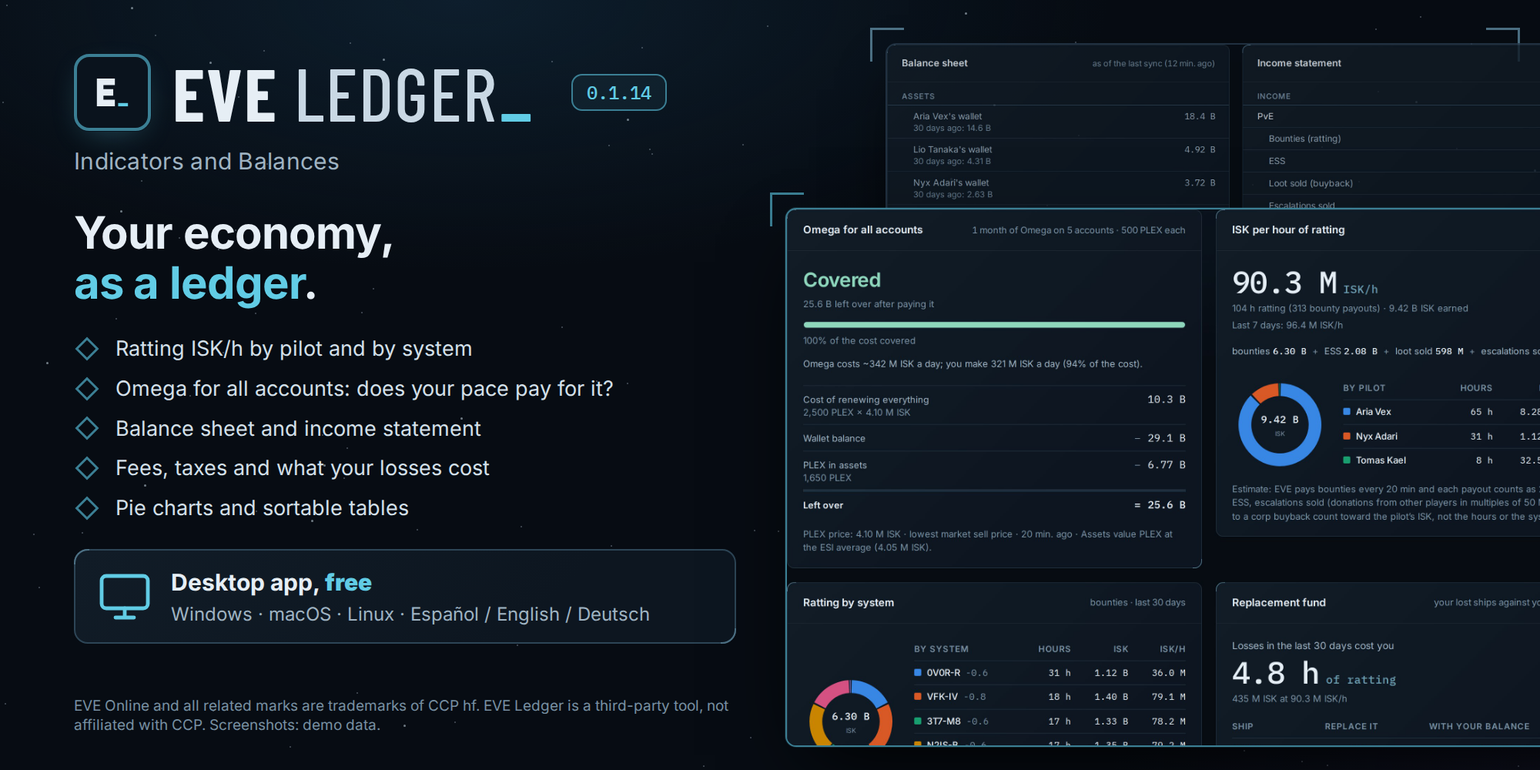
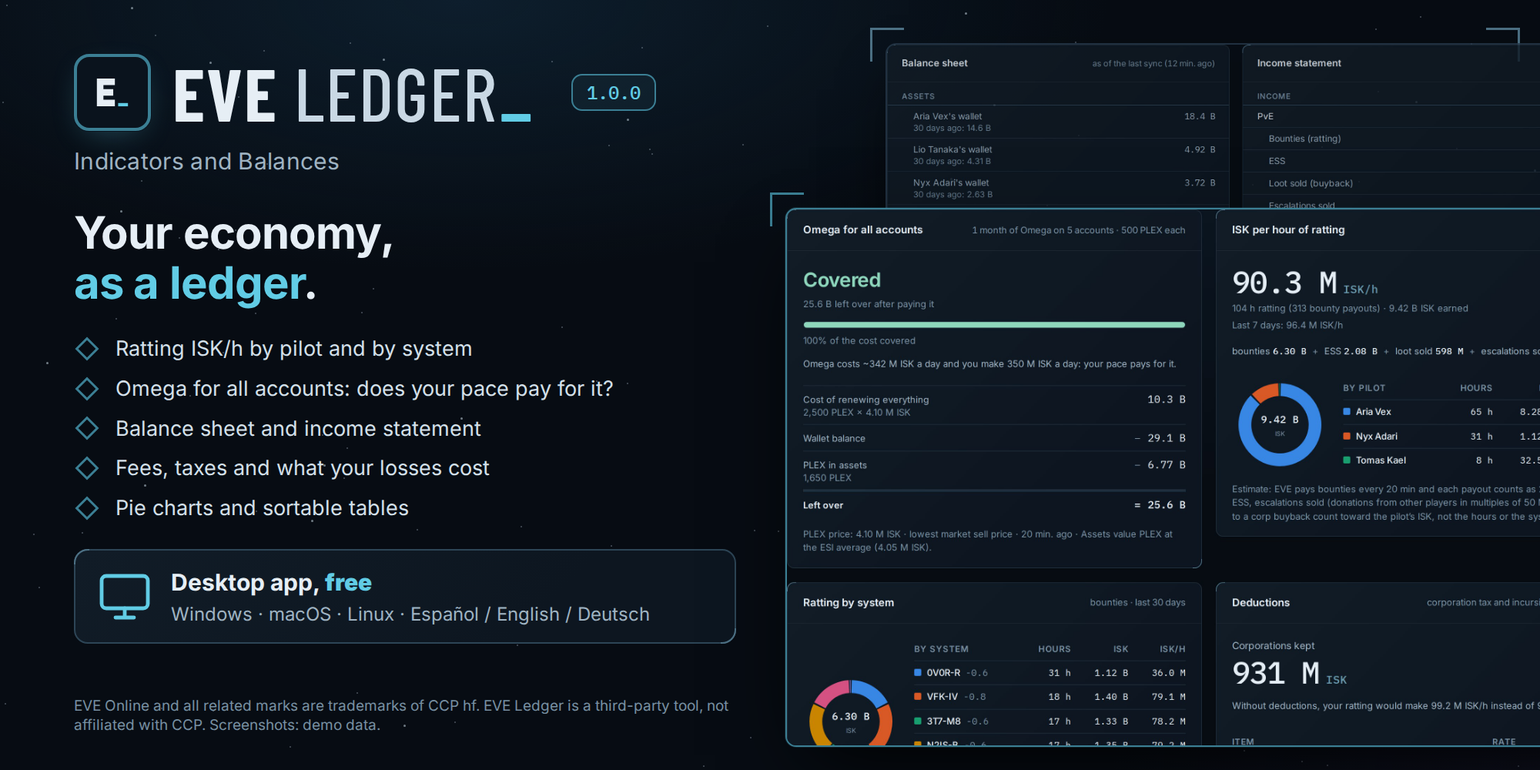
Release 1.0.0: first stable version
Version 1.0.0 in tauri.conf.json, Cargo.toml and Cargo.lock; the CHANGELOG's
Unreleased section becomes 1.0.0 with the release notes (what EVE Ledger is,
what changed since 0.1.18, upgrading from 0.1.x: optional loyalty permission,
unsigned installers, where it has been tested). The upgrade test opens a
1.0.0 database (19 migrations) too.

Screenshots for the README and the brochure regenerated with the demo data,
which now carries the corporation tax of each bounty and ESS payment so the
Deductions card isn't empty; the brochure shows 1.0.0. The demo script
refuses to start on a busy port and runs its servers without a subshell, so
its trap really stops them (a server left over from an earlier run was
serving stale data to the screenshots: Bun shares the port).

Claude-Session: https://claude.ai/code/session_01M8WtF2MrXeJVUAxf2xqCAQ

diff --git a/docs/brochure/demo/seed.ts b/docs/brochure/demo/seed.ts
@@ -39,6 +39,10 @@ const ST = {
   staging: 1_045_000_000_001, // made-up citadel in VFK-IV
 };
 const NPC_CORP = 1000125; // CONCORD
+// Corporation tax (Descuentos): the pilots' corporation keeps 10 % of bounties and ESS; Tomas, still in an NPC
+// corporation, pays 11 %
+const TAX_CORP = 98_100_002;
+const TAX_NPC_CORP = 1000049; // Brutor Tribe
 const STRANGERS = [95_100_001, 95_100_002, 95_100_003, 95_100_004];
 const BUYBACK_CORP = 98_100_001;
 const T = {
@@ -240,6 +244,8 @@ for (const e of entries) {
       journalRefId: id,
     });
   }
+  const taxed = e.ref === 'bounty_prizes' || e.ref === 'ess_escrow_transfer';
+  const npcTax = e.char === P.tomas.id;
   journal.push({
     journalId: id,
     characterId: e.char,
@@ -251,6 +257,9 @@ for (const e of entries) {
     secondPartyId: e.second,
     contextId: ctx?.[0],
     contextIdType: ctx?.[1],
+    // ESI gives the tax with the amount already net of it
+    tax: taxed ? round(e.amount * (npcTax ? 0.11 / 0.89 : 0.1 / 0.9)) : 0,
+    taxReceiverId: taxed ? (npcTax ? TAX_NPC_CORP : TAX_CORP) : null,
   });
 }
 for (const [id, b] of balance) if (b < 0) throw new Error(`saldo negativo en ${id}`);
@@ -358,6 +367,8 @@ db.insert(s.names)
     ...systems.map((x) => ({ id: x.id, name: x.name, category: 'solar_system' })),
     { id: NPC_CORP, name: 'CONCORD', category: 'corporation' },
     { id: BUYBACK_CORP, name: 'Demo Buyback Corp', category: 'corporation' },
+    { id: TAX_CORP, name: 'Ledger Demo Corp', category: 'corporation' },
+    { id: TAX_NPC_CORP, name: 'Brutor Tribe', category: 'corporation' },
     ...STRANGERS.map((id, i) => ({ id, name: `Demo Trader ${i + 1}`, category: 'character' })),
   ])
   .onConflictDoNothing()

diff --git a/docs/brochure/brochure.html b/docs/brochure/brochure.html
@@ -161,7 +161,7 @@ const slide = T[q.get('slide')] ? q.get('slide') : 'portada';
 const t = { ...T[slide][lang], ...COMMON[lang] };
 document.documentElement.lang = lang;
 document.body.dataset.slide = slide;
-document.querySelector('[data-version]').textContent = q.get('v') || '0.1.14';
+document.querySelector('[data-version]').textContent = q.get('v') || '1.0.0';
 for (const el of document.querySelectorAll('[data-t]')) {
   const k = el.dataset.t;
   // A bullet in square brackets is the new feature: chip «NUEVO»

diff --git a/apps/api/test/upgrade.test.ts b/apps/api/test/upgrade.test.ts
@@ -22,6 +22,7 @@ const RELEASES: [string, number][] = [
   ['0.1.13', 15],
   ['0.1.15', 17],
   ['0.1.17', 18],
+  ['1.0.0', 19],
 ];
 
 const ARIA = 2_100_000_001;

diff --git a/CLAUDE.md b/CLAUDE.md
@@ -37,7 +37,7 @@ Proyecto personal, corre solo en localhost. Responder siempre en español neutro
 - **Resultado de juego** (tarjeta de Neto): neto del wallet − PLEX / cuentas (aparte) − naves que no volvieron − por reponer; la frase lo desglosa («Neto del wallet −13,4 B + 18,8 B de PLEX (cuentas, aparte) − 2,20 B de naves que no volvieron − ~424 M por reponer»). Las barras de actividades de la tarjeta no incluyen PLEX / cuentas: va en su propia línea al pie («PLEX / cuentas: −18,8 B · 3840 PLEX comprados · Omega en Indicadores»); el panel «Por actividad» sí la detalla. En el gráfico diario la parte de la barra que es PLEX va rayada (leyenda «PLEX (cuentas)», tooltip y `aria-label`). El ritmo del Omega (`dailyNetRate`) no cuenta el PLEX. Si un tipo de movimiento es ≥ 60 % de una actividad, su `title` lo nombra («sobre todo Donaciones»).
 - Ingresos y gastos son **brutos** en todo el resumen (totales, «Hoy», período anterior, gráfico diario y pilotos): toda compra de mercado es gasto y toda venta ingreso, para que lo gastado en ítems se vea. El margen del trading (ventas − compras − comisiones) solo aparece como neto de su fila en «Por actividad». (Antes se plegaba como margen en los totales; se descartó porque ocultaba las compras.) Las naves compradas en el mercado cuentan como trading, salvo las que reponen una nave perdida (PvP, ver «PvP con naves»).
 - Revisión de mercado (`market` en `/summary`, `marketReview()`): una tabla por ítem con vendido, comprado y neto (sin comisiones), plegada al final del resumen. Orden del resumen: filtro de pilotos → vistazo → gráfico → por actividad → tabla de pilotos → inventario → revisión de mercado.
-- Filtro por piloto: `?characterId=` opcional en `/summary`, `/inventory` y `/map` (404 si no está vinculado; `src/lib/pilot-filter.ts`). Las transferencias entre tus pilotos siguen sin contar también en la vista de un piloto; `characters` en `/summary` y `byCharacter` en `/inventory` vienen siempre completos. En la web es `/?pilot=ID`: la franja de pilotos bajo las pestañas de período es el filtro («Todos» con la suma de los saldos + cada piloto con el **saldo de su wallet** al último sync, `characters[].balance`, sin signo ni verde/rojo porque no es un neto; decisión del usuario, 0.1.19: antes mostraba el neto del período, que ya está en la tarjeta de Neto y en la tabla de pilotos; un piloto sin sync muestra «—» y uno con datos viejos, su saldo en gris con la edad) y las pestañas lo conservan; un enlace a un piloto desvinculado vuelve al consolidado.
+- Filtro por piloto: `?characterId=` opcional en `/summary`, `/inventory` y `/map` (404 si no está vinculado; `src/lib/pilot-filter.ts`). Las transferencias entre tus pilotos siguen sin contar también en la vista de un piloto; `characters` en `/summary` y `byCharacter` en `/inventory` vienen siempre completos. En la web es `/?pilot=ID`: la franja de pilotos bajo las pestañas de período es el filtro («Todos» con la suma de los saldos + cada piloto con el **saldo de su wallet** al último sync, `characters[].balance`, sin signo ni verde/rojo porque no es un neto; decisión del usuario, escritorio 1.0.0: antes mostraba el neto del período, que ya está en la tarjeta de Neto y en la tabla de pilotos; un piloto sin sync muestra «—» y uno con datos viejos, su saldo en gris con la edad) y las pestañas lo conservan; un enlace a un piloto desvinculado vuelve al consolidado.
 - Primer uso en el resumen: sin pilotos, `FirstRun.astro` (qué responde el ledger, tres pasos, aviso de los ~30 días de ESI y una sola acción: vincular; sin pestañas de período ni botón «Sincronizar»). Con pilotos pero sin ningún movimiento guardado (vista consolidada), `FirstSync.astro`: estado de cada piloto y recarga cada 15 s (máx. 2 min) mientras alguno hace su primer sync.
 - **Escritorio** (`apps/desktop`, decisión del usuario: compartir el ledger personal con la corp con un instalador de Tauri y configuración editable):
   - Tauri 2 lanza la API y la web como dos procesos de **Bun (sidecar `binaries/bun-<triple>`)**: `resources/server/api/api.js` (la API en un archivo) y `resources/server/web/server/entry.js` (Astro empaquetado sin `node_modules`; el adaptador busca `../client` subiendo hasta la carpeta `server`). Los dos pasan por `launch.js` (`scripts/launch.js`), que sale cuando se cierra su stdin: si la app muere, no quedan ocupando los puertos. Nada se ejecuta desde la carpeta de instalación: `install_server()` copia los recursos a la carpeta de datos local (`server/<versión-huella>`, borra las copias viejas), porque en Windows Bun daba «EPERM reading» en `C:\Program Files`; y las rutas «verbatim» de Windows (`\\?\C:\…`) se pasan sin el prefijo (`plain()`), que Bun no abre. La versión sube con cada instalador (MSI no actualiza encima de la misma versión).
@@ -63,7 +63,7 @@ Proyecto personal, corre solo en localhost. Responder siempre en español neutro
   - **Dónde está tu ISK**: torta del saldo de los wallets por piloto (de `omega.balances`, de mayor a menor, solo saldos > 0) con Saldo · % del saldo.
   - **Comisiones e impuestos** (`feesIndicator()`, 30 días): impuesto de venta, broker, impuesto del mercado y comisiones/impuestos de contratos de compraventa (las de courier son logística), en ISK y en % de lo vendido en el mercado (sin ventas a tus pilotos), con la pista de Accounting / Broker Relations.
   - **Descuentos** (decisión del usuario, escritorio 0.1.17; `deductionsIndicator()` en `src/services/deductions.ts`, 30 días): lo que no llega al wallet de lo que ganas en PvE. **Impuesto de corporación**, exacto: ESI da `tax` y `tax_receiver_id` en cada movimiento del journal (columnas `tax`, `tax_receiver_id`, migración 0017; `amount` ya viene sin el impuesto, así que no cambia el neto ni nada del resumen); se guardan al insertar y el sync completa los movimientos guardados antes (`fillTax()`, solo los que tienen `tax` a null; los que ESI ya no da se quedan en null y la tarjeta cuenta cuántos cobros no tienen el dato). Por corporación con su tasa (impuesto ÷ (cobrado + impuesto)), «NPC» si su ID está en 1 000 000–1 999 999, y el desglose por tipo en el `title`; el nombre de la corporación lo resuelve `resolvePendingNames()`. **Penalización de incursión**, estimada: en la constelación de una incursión las recompensas se pagan a la mitad sin depender de la influencia (EVE University, «Incursions»; `INCURSION_BOUNTY_PENALTY` = 0,5), así que lo perdido = lo cobrado × p / (1 − p). ESI solo dice las incursiones activas (`GET /incursions/`, público): `refreshIncursions()` las apunta una vez por ronda de sync en `incursion_systems` (un tramo por sistema; si se vuelve a ver antes de 24 h se alarga) y `esi_checks` guarda desde cuándo se mira; solo cuenta una recompensa (`bounty_prizes` con `context_id_type = system_id`) cobrada dentro de un tramo (la cifra es «al menos»; el ESS no dice el sistema y no entra). Tarjeta: «Se quedaron las corporaciones» con lo exacto como cifra y la incursión aparte en gris con «~» (si no hay impuesto, la cifra es la incursión, en gris), «Sin descuentos, tu ratting daría X ISK/h en lugar de Y (+Z %)» (solo suma el impuesto de recompensas y ESS, no el de misiones) y una tabla Concepto · Tasa · ISK con dos grupos (corporaciones; sistemas con incursión, en gris). «Ratting por sistema» marca con la etiqueta ámbar «incursión» los sistemas cuya recompensa se llevó una incursión. Pruebas: `apps/api/test/deductions.test.ts` y un flujo e2e (Kade rattea en Kamela con incursión).
-  - **Puntos de lealtad** (decisión del usuario tras un comentario de la comunidad («los puntos de ESI de la corp»: podían ser los EverMarks o los LP por corporación, y en ESI son lo mismo); `loyaltyIndicator()` en `src/services/loyalty.ts`, migración 0018): scope **opcional** `esi-characters.read_loyalty.v1` (en `OPTIONAL_SCOPES`, como citadelas: chip «Puntos de lealtad · opcional» en Pilotos, lista `OPTIONAL` de `pilotos.astro`; **pendiente añadirlo a la app de EVE**). En cada sync, `GET /characters/{id}/loyalty/points` → `loyalty_points` (foto por piloto y corporación, se reemplaza) y `loyalty_log` (una fila por cada cambio, también a 0 cuando una corporación desaparece: ESI no da historial, así que el cambio del período, ganados − gastados, sale de ahí desde el primer sync; si el registro empieza dentro del período, la tarjeta dice «desde el <fecha>»). **EverMarks** = los LP de la corporación NPC Paragon, que se distingue **por el nombre** (`EVERMARKS_CORP`; el ID no se pudo verificar desde el entorno de Claude), van aparte y «no se cambian por ISK». **Valor** = LP × el mejor cambio de la tienda de esa corporación: `GET /loyalty/stores/{id}/offers` (público, `loyalty_offers`, `loyalty_stores` apunta cuándo se leyó cada una: al día, 10 por sync, las de más LP primero, un 404 espera 7 días; `refreshLoyaltyStores()`), y por oferta (ítem × cantidad al **precio medio de ESI** − ISK − ítems que hay que aportar) ÷ LP; sin precio de algo, la oferta no cuenta. Siempre estimado (gris, «~»; la nota dice que no es lo de Jita). El wallet de LP de la propia corporación no está en ESI (petición abierta desde 2023). Tarjeta tras «Dónde está tu ISK»: «Valen ~1,06 B» (o «Tienes N LP» si nada se puede valorar), «+235.000 LP en 30 días (ganados menos gastados)», torta de LP por corporación con la tabla Corporación (con los pilotos debajo si hay más de uno) · LP · ISK/LP · Valor (el `title` dice el mejor cambio o por qué no hay), línea «EverMarks (Paragon): 38.100 · Aria 21.400 · … · no se cambian por ISK» y la nota con cobertura (sin permiso, sin primer sync, tiendas por leer o sin valor). Pruebas: `apps/api/test/loyalty.test.ts` y un flujo e2e.
+  - **Puntos de lealtad** (decisión del usuario tras un comentario de la comunidad («los puntos de ESI de la corp»: podían ser los EverMarks o los LP por corporación, y en ESI son lo mismo); `loyaltyIndicator()` en `src/services/loyalty.ts`, migración 0018): scope **opcional** `esi-characters.read_loyalty.v1` (en `OPTIONAL_SCOPES`, como citadelas: chip «Puntos de lealtad · opcional» en Pilotos, lista `OPTIONAL` de `pilotos.astro`; ya en la app de EVE). En cada sync, `GET /characters/{id}/loyalty/points` → `loyalty_points` (foto por piloto y corporación, se reemplaza) y `loyalty_log` (una fila por cada cambio, también a 0 cuando una corporación desaparece: ESI no da historial, así que el cambio del período, ganados − gastados, sale de ahí desde el primer sync; si el registro empieza dentro del período, la tarjeta dice «desde el <fecha>»). **EverMarks** = los LP de la corporación NPC Paragon, que se distingue **por el nombre** (`EVERMARKS_CORP`; el ID no se pudo verificar desde el entorno de Claude), van aparte y «no se cambian por ISK». **Valor** = LP × el mejor cambio de la tienda de esa corporación: `GET /loyalty/stores/{id}/offers` (público, `loyalty_offers`, `loyalty_stores` apunta cuándo se leyó cada una: al día, 10 por sync, las de más LP primero, un 404 espera 7 días; `refreshLoyaltyStores()`), y por oferta (ítem × cantidad al **precio medio de ESI** − ISK − ítems que hay que aportar) ÷ LP; sin precio de algo, la oferta no cuenta. Siempre estimado (gris, «~»; la nota dice que no es lo de Jita). El wallet de LP de la propia corporación no está en ESI (petición abierta desde 2023). Tarjeta tras «Dónde está tu ISK»: «Valen ~1,06 B» (o «Tienes N LP» si nada se puede valorar), «+235.000 LP en 30 días (ganados menos gastados)», torta de LP por corporación con la tabla Corporación (con los pilotos debajo si hay más de uno) · LP · ISK/LP · Valor (el `title` dice el mejor cambio o por qué no hay), línea «EverMarks (Paragon): 38.100 · Aria 21.400 · … · no se cambian por ISK» y la nota con cobertura (sin permiso, sin primer sync, tiendas por leer o sin valor). Pruebas: `apps/api/test/loyalty.test.ts` y un flujo e2e.
 - **Tortas y orden en las tablas principales** (decisión del usuario): «Por actividad» lleva dos tortas (ingresos y gastos por actividad; el color de cada actividad es su posición en el orden fijo, `ACTIVITIES` de `lib/api.ts`, no en la lista que llega, que omite las vacías) y filas en columnas alineadas Ingresos · Gastos con el % del total debajo de cada cifra (el orden de las actividades sigue fijo; la pista va en su propia área de la rejilla y en móvil a todo el ancho); «Naves perdidas», dos tortas con tabla-leyenda (coste por piloto, solo en el consolidado, y por tipo de nave; de mayor a menor, 6 + «Otros»; la pérdida que el seguro dejó en positivo cuenta 0; con lo estimado por reponer y el pie lo dice); «Pilotos», dos tortas (ingresos y gastos por piloto) con la muestra de color en la fila y la tarjeta de cada piloto, y **cabeceras que ordenan** (`.sort-button` con `aria-sort`: mayor a menor, invertir, orden original; sin dato al final; la fila Total fija; los `data-*` de cada fila y tarjeta llevan los valores; en móvil, el selector «Ordenar por» de `.cards-sort`). Compartido en `theme.css`: `.shares` (fila de figuras: torta + pie o torta + `.mini`), `.mini` (antes solo en Indicadores), `.sort-button`, `.sort-select`; `fold()` y `shareOf()` en `src/lib/shares.ts`. El color sigue a la entidad (índice fijo), no a su rango: ordenar no repinta.
 - **Balances** (`/balances`, `apps/web/src/pages/balances.astro`, decisión del usuario: «un módulo contable», llamado «Balances» porque el wallet de EVE no es contabilidad formal): las cifras del resumen como un libro, con pestañas de período y chips de piloto (`?days=`, `?pilot=`; un piloto desvinculado vuelve al consolidado). **Balance general** «al último sync»: Activo = wallets (una fila por piloto con «hace N días: saldo anterior») + inventario al precio medio (en el consolidado, el PLEX guardado aparte: `plexOwned × plexAveragePrice` de `/indicators`); Pasivo (compromisos, no deudas) = Omega del próximo mes de todas las cuentas (`omega.cost`, solo consolidado; sin precio, «—») + naves por reponer (estimado, gris); Patrimonio neto = activo − pasivo (sin «+», rojo solo si es negativo). **Estado de resultados** del período: ingresos y gastos brutos por actividad (orden fijo) con sus tipos de movimiento como líneas indentadas y el % del total; Total ingresos, Total gastos (−), «= Resultado del wallet» (ingresos − gastos, con signo y color); en la vista de un piloto, nada de lo movido con tus otros pilotos (no es resultado; va en la conciliación); «Del wallet al resultado de juego»: PLEX / cuentas aparte (+ lo comprado), − no repuesto, − por reponer (estimado) «= Resultado de juego» (la misma fórmula que la tarjeta de Neto; con estimado, en gris con «~»). **Conciliación del wallet** (suma los pilotos con movimientos guardados: uno sin primer sync no la deja en «—»): saldo anterior (+/−) resultado del wallet (+/−) movido con tus otros pilotos (vista de un piloto) (+/−) «movimientos anteriores al historial» si hay hueco ≥ 1 ISK «= Saldo actual». Tabla `.statement` (etiqueta con `.row-meta`, operador en su columna con `sr-only`, importe, `% del total`; grupos en mayúsculas, `.sub` indentado, `.total` con línea fuerte, `.result` con doble línea, `.estimate` en gris). Rejilla `.books`: balance y conciliación a la izquierda (filas `max-content 1fr` para que la conciliación quede pegada al balance), resultados a la derecha; apilado por debajo de 960 px. En `format.ts`, etiquetas de `project_discovery_reward`, `air_career_program_reward` y `manufacturing`.
 - **Doctrinas** (`/doctrinas`, decisión del usuario: «qué pilotos pueden llevar una nave o doctrina», skills requeridas y óptimas). Entregas 1 (quién vuela qué) y 2 (cuánto cuesta) hechas.
@@ -91,7 +91,7 @@ Proyecto personal, corre solo en localhost. Responder siempre en español neutro
 `characters`, `wallet_journal` (PK `journal_id, character_id`; con `tax` y `tax_receiver_id`), `wallet_transactions` (PK `transaction_id, character_id`; con `client_id` y `journal_ref_id`), `names`, `assets`, `market_prices`, `market_quotes`, `systems`, `station_systems`, `incursion_systems`, `esi_checks`, `killmails` (ítems con `flag`), `contracts`, `types`, `structure_lookups`, `jita_prices`, `character_skills`, `character_attributes`, `type_dogma`, `doctrines`, `fits`, `fit_plans`, `loyalty_points`, `loyalty_log`, `loyalty_offers`, `loyalty_stores`, `sync_log` (con `kind`: `journal` | `transactions` | `assets` | `killmails` | `contracts` | `skills` | `loyalty`).
 
 ## Estado
-- [x] 1. App registrada en developers.eveonline.com (es la app incluida en el instalador de escritorio: `EVE_LEDGER_CLIENT_ID`) (scopes: wallet, assets, killmails, contratos y skills; **pendiente añadir `esi-universe.read_structures.v1`** (0.1.14) **y `esi-characters.read_loyalty.v1`** (puntos de lealtad) en la app antes de repartir un instalador que lo pida: el login lo pide y EVE rechaza un scope que la app no tiene, `invalid_scope`)
+- [x] 1. App registrada en developers.eveonline.com (es la app incluida en el instalador de escritorio: `EVE_LEDGER_CLIENT_ID`) (scopes: wallet, assets, killmails, contratos, skills y los opcionales `esi-universe.read_structures.v1` y `esi-characters.read_loyalty.v1`, añadidos por el usuario antes de la 1.0.0; todo scope nuevo hay que añadirlo en la app antes de repartir un instalador que lo pida: el login lo pide y EVE rechaza un scope que la app no tiene, `invalid_scope`)
 - [x] 2. Esquema Drizzle + migración
 - [x] 3. Flujo SSO (`/auth/login`, `/auth/callback`) + `GET /characters` + `GET /characters/:id/wallet`
 - [x] 4. Sync del wallet journal (`src/services/sync.ts`, `POST /sync/:characterId`, `POST /sync/all`, `GET /sync/log`)
@@ -136,7 +136,8 @@ Proyecto personal, corre solo en localhost. Responder siempre en español neutro
 - [x] 44. Doctrinas por la comunidad (escritorio 0.1.18): renombrar, plegar cada doctrina con el resumen «X de N pilotos · Y de M naves» y vista compacta de los fits.
 - [x] 42. Descuentos en Indicadores (escritorio 0.1.17): impuesto de corporación exacto (journal, migración 0017) y penalización de recompensas en sistemas con incursión, estimada con el registro de `GET /incursions/` en cada sync.
 - [x] 17. Sexta crítica de impeccable (29/40) resuelta entera: frescura por piloto con causa, primer sync que caduca, línea de salud con acciones, Indicadores a 600 px cerrando con el ETA, «Hoy» bajo el neto en móvil.
-- [x] 45. Puntos de lealtad en Indicadores (petición de la comunidad, sin versión aún): scope opcional, LP por corporación y piloto con registro de cambios, EverMarks aparte, valor al mejor cambio de cada tienda (migración 0018: al publicarla, añadir la versión a `RELEASES` de `upgrade.test.ts`).
+- [x] 45. Puntos de lealtad en Indicadores (petición de la comunidad; escritorio 1.0.0): scope opcional, LP por corporación y piloto con registro de cambios, EverMarks aparte, valor al mejor cambio de cada tienda (migración 0018).
+- [x] 46. **Escritorio 1.0.0** (primera versión estable): chips de pilotos con el saldo, puntos de lealtad, renombrar y borrar en la cabecera de cada doctrina, notas de release «primera estable» en el CHANGELOG, `1.0.0 = 19` en `RELEASES` de la prueba de actualización y capturas regeneradas. Los scopes opcionales (citadelas y lealtad) ya están en la app de EVE (confirmado por el usuario). Sin certificados de firma (decisión reafirmada: no se pagan).
 
 ## Paso 4 — especificación
 - `src/services/sync.ts`: `syncJournal(characterId)`
@@ -154,7 +155,7 @@ Proyecto personal, corre solo en localhost. Responder siempre en español neutro
 - Web (`apps/web`): `bun install` · `bun run dev` (puerto 4321) · `bun run test:e2e` (compila y pasa las pruebas de extremo a extremo)
 - **Pruebas de la web** (hacia la 1.0, `apps/web/e2e`, Playwright 1.56.1, el del Chromium del entorno): `serve-api.ts` arranca la API con una base nueva en una carpeta temporal y los datos de `seed.ts` (inventados, con fechas relativas a hoy: Aria Vex Omega con todos los permisos, Kade Morrow Alfa sin el opcional de citadelas, Nyx Adari sin sync; ratting, mercado, una donación entre pilotos, PLEX, una nave perdida y su reposición, inventario en Jita, en una citadela con nombre y en otra sin él, LP con Sisters of EVE (tienda con una oferta valorable), Federation Navy y Paragon), sin sync automático ni ESI; la web compilada corre con Bun como en escritorio. `pages.spec.ts`: las páginas (resumen, vista de un piloto, con inventario, Indicadores, Balances, Doctrinas, Pilotos) en ES/EN/DE a 390 y 1320 px: 200, un solo `h1`, `lang`, sin «undefined/NaN» ni desborde horizontal ni errores de consola (los de imágenes de CCP sin red no cuentan). `flows.spec.ts`: suma de los pilotos = total, actividades = total y conciliación por piloto (contra la API), neto de un piloto sin lo movido con los demás, punto del neto dentro del gráfico, una sola parada de Tab, el permiso opcional no enciende avisos, piloto sin sync sin ceros, citadelas con nombre, puntos de lealtad (valor al mejor cambio, cambio del período, EverMarks, cobertura), copias (hacer, restaurar, rechazar un archivo) y selector de idioma. Un solo worker (comparten la base). CI: `.github/workflows/tests.yml` en cada PR y en main (bun test de la API + compilar la web + e2e; el informe de Playwright como artefacto si falla). Comprobado que detectan una regresión: volver a sumar las transferencias al neto de un piloto hace fallar su prueba.
 - **Rendimiento** (hacia la 1.0, `apps/api/scripts/bench.ts`, `bun run bench [--days=365] [--runs=5] [--keep]`): base sintética de 5 pilotos y un año (~100 000 movimientos, un trader con ~100 operaciones al día, una pérdida cada 3 días con su reposición, 15 000 pilas de inventario) en una carpeta temporal y la API real encima, sin ESI; mide las rutas que piden las páginas. Medido: `/summary?days=30` ~0,25 s, `?days=90` ~0,36 s, `/indicators` ~0,2 s, `/losses` unos ms con el reparto en caché (antes 0,7–1,7 s, 1,4 s y 0,8 s).
-- **Actualizar desde versiones anteriores** (`apps/api/test/upgrade.test.ts` + `upgrade-worker.ts`): una base con el esquema de cada versión de escritorio publicada (0.1.0 = 9 migraciones, 0.1.9 = 11, 0.1.11 = 12, 0.1.12 = 14, 0.1.13 = 15, 0.1.15 = 17, 0.1.17 = 18; añadir la nueva a `RELEASES` cuando una versión traiga migraciones) con datos como se guardaban (killmails sin `flag`, pilotos `secret`) y la API actual arrancando encima en su propio proceso: copia `update`, todas las migraciones, ningún dato perdido, las mismas cifras desde cualquier versión y la copia de antes se restaura.
+- **Actualizar desde versiones anteriores** (`apps/api/test/upgrade.test.ts` + `upgrade-worker.ts`): una base con el esquema de cada versión de escritorio publicada (0.1.0 = 9 migraciones, 0.1.9 = 11, 0.1.11 = 12, 0.1.12 = 14, 0.1.13 = 15, 0.1.15 = 17, 0.1.17 = 18, 1.0.0 = 19; añadir la nueva a `RELEASES` cuando una versión traiga migraciones) con datos como se guardaban (killmails sin `flag`, pilotos `secret`) y la API actual arrancando encima en su propio proceso: copia `update`, todas las migraciones, ningún dato perdido, las mismas cifras desde cualquier versión y la copia de antes se restaura.
 - **Idioma de los commits, el CHANGELOG y los comentarios del código: inglés** (decisión del usuario, para el repositorio público): mensajes de commit, CHANGELOG, notas de release y comentarios en inglés (las etiquetas de la interfaz citadas en un comentario pueden quedar entre «» tal cual); las guías, CLAUDE.md, los textos de la interfaz (i18n), los mensajes de registro y los títulos de las pruebas siguen en español.
 - **CHANGELOG.md** (en inglés): una sección `## x.y.z — fecha` por versión y `## Unreleased` arriba; el job `version` del workflow de escritorio usa la sección de la versión como notas del borrador de la release (con enlaces a la guía y al CHANGELOG del repositorio que compila). Al subir la versión, renombrar «Unreleased». Plantillas de issue en `.github/ISSUE_TEMPLATE` (error, una cifra que no cuadra, idea; en inglés, se puede escribir en ES/DE; nunca piden la base, `ledger.env`, `ENC_KEY` ni tokens).
 - Escritorio (`apps/desktop`): `bun install` · `bun run prepare:server` · `bun run tauri dev` / `bun run tauri build` · tests de la configuración: `cd src-tauri && cargo test`

diff --git a/CHANGELOG.md b/CHANGELOG.md
@@ -4,11 +4,22 @@ What changed in each version of the EVE Ledger desktop app. Every version is a [
 
 When a new version changes the database, the app first saves a copy of it as an `update` backup (**Pilots → Backups**), so you can always go back.
 
-## Unreleased
+## 1.0.0 — 2026-10-19
+
+First stable release. EVE Ledger answers "am I making or losing ISK?" for all your EVE Online pilots, on your own computer: it reads your wallets, assets, losses, contracts, skills and loyalty points through ESI, keeps the history ESI drops after 30 days, and shows it as a Summary (net by activity, today, daily chart, pilots, inventory, market review), Lost ships (what they really cost you), Indicators (Omega for all your accounts, ratting ISK/h, deductions, fees, loyalty points…), Balances (a balance sheet, an income statement and a wallet reconciliation) and Doctrines (who can fly each fit, what it costs, what is missing). Everything stays local: no server, no account, read-only permissions, login with PKCE and no secrets to keep. Spanish, English and German.
+
+Since 0.1.18:
 
 - **Doctrines: rename and delete in the heading row.** The pencil and the bin sit at the right end of each doctrine's heading, so they are there with the doctrine folded too; the pencil is amber and the bin red (the bin of each fit as well). The rename field opens under the pencil.
 - **Indicators → Loyalty points.** What each pilot has with each corporation (missions, faction warfare, your own corporation's projects) and what it is worth in ISK at the best exchange of that corporation's LP store, valued at ESI's average price (an estimate: not what Jita would pay). EverMarks, the loyalty points of Paragon, are shown apart: they can't become ISK. ESI only gives balances, so the change over the period (earned minus spent) is recorded from the first sync on. Needs a new optional permission: pilots linked before show "Loyalty points · optional" in Pilots; click it to grant it. The corporation's own LP wallet is not in ESI.
 - **Summary: the pilot chips show the wallet balance.** The filter strip under the period tabs now shows what each pilot has in the wallet (and "All", the sum of the wallets), instead of the period net, which is already in the Net card and in the pilots table. A pilot without a sync shows "—"; stale data is greyed with its age, as before.
+
+Upgrading from 0.1.x:
+
+- The app updates itself. This version adds the loyalty-point tables to the database; an `update` backup is saved first (**Pilots → Backups**).
+- Loyalty points need a new optional permission: pilots linked before show "Loyalty points · optional" in Pilots. Click it and sign in with that pilot; everything else keeps working without it.
+- The installers stay unsigned: it's a free, open project and signing certificates cost money every year. Windows (SmartScreen) and macOS (Gatekeeper) warn the first time; every release carries SHA-256 sums and a GitHub build attestation, and the install guide explains how to check them and get past the warning.
+- Tested by hand on Windows and Linux. The macOS (Apple Silicon) build comes straight from CI and hasn't been tried on a Mac yet: reports are welcome.
 
 ## 0.1.18 — 2026-10-16
 

diff --git a/docs/brochure/README.md b/docs/brochure/README.md
@@ -8,8 +8,8 @@ Tres piezas de 2000 × 1000 px en español e inglés, para redes sociales y foro
 | Doctrinas: quién vuela qué y cuánto cuesta | `eve-ledger-doctrinas-es.png`, `eve-ledger-doctrinas-en.png` | la doctrina (delante) y «Con qué se paga» (detrás) |
 | Indicadores y Balances | `eve-ledger-indicadores-es.png`, `eve-ledger-indicadores-en.png` | indicadores (delante) y balances (detrás) |
 
-Salen de `brochure.html` (`?slide=portada|doctrinas|indicadores&lang=es|en&v=0.1.14`), que sigue el design system del dashboard (`docs/design-system-prompt.md`), con las capturas `shot-<pantalla>-<idioma>.jpg` (también las usa el `README.md` de la raíz).
+Salen de `brochure.html` (`?slide=portada|doctrinas|indicadores&lang=es|en&v=1.0.0`), que sigue el design system del dashboard (`docs/design-system-prompt.md`), con las capturas `shot-<pantalla>-<idioma>.jpg` (también las usa el `README.md` de la raíz).
 
-**Datos de demostración, todos inventados** (`demo/seed.ts`): seis pilotos ficticios con 65 días de historial relativos a hoy (ratting en Deklein con ESS, escalaciones y loot vendido, misiones, trading en Jita, couriers, PLEX, donaciones entre ellos), tres naves perdidas (una repuesta con su courier, otra sin reponer, otra con la ventana abierta), inventario en estaciones y citadelas, puntos de lealtad con Sisters of EVE y Federation Navy más EverMarks, y una doctrina de ejemplo (Hurricane, Scimitar y Rifter) con skills sembradas y ESI simulado (`demo/esi-mock.ts`, `demo/types.ts`; precios de Jita incluidos). Nada sale de una cuenta real.
+**Datos de demostración, todos inventados** (`demo/seed.ts`): seis pilotos ficticios con 65 días de historial relativos a hoy (ratting en Deklein con ESS, escalaciones y loot vendido (con el impuesto de corporación de cada cobro), misiones, trading en Jita, couriers, PLEX, donaciones entre ellos), tres naves perdidas (una repuesta con su courier, otra sin reponer, otra con la ventana abierta), inventario en estaciones y citadelas, puntos de lealtad con Sisters of EVE y Federation Navy más EverMarks, y una doctrina de ejemplo (Hurricane, Scimitar y Rifter) con skills sembradas y ESI simulado (`demo/esi-mock.ts`, `demo/types.ts`; precios de Jita incluidos). Nada sale de una cuenta real.
 
 Para regenerarlo todo (hace falta `bun install` en `apps/api` y `apps/web`, y Playwright con Chromium): `docs/brochure/demo/run.sh`. Crea una base nueva en una carpeta temporal, levanta la API (con el ESI simulado) y la web en los puertos 3998 y 4398, añade la doctrina, hace las capturas a 1320 px y escala 2 en JPEG (calidad 88; la doctrina a 1040 px, para que la tabla entera con los iconos de «Para volarlo ya» quepa en el hueco de la pieza) y renderiza las piezas con `render.cjs`.

diff --git a/apps/desktop/INSTALAR.md b/apps/desktop/INSTALAR.md
@@ -44,7 +44,7 @@ Pulsa **Guardar y abrir el ledger**. Se abre el dashboard. Ve a **Pilotos → Vi
 
 > **Nombres de las citadelas (opcional):** desde la 0.1.14, EVE Ledger puede mostrar el nombre de las citadelas donde guardas cosas o comercias (si no, salen como «Estructura …»). Los pilotos vinculados antes muestran en Pilotos el chip «Nombres de citadelas · opcional»: púlsalo (o **Revincular**) y entra con ese personaje para concederlo. Solo se ven las citadelas a las que ese piloto tiene acceso.
 
-> **Puntos de lealtad (opcional):** Indicadores muestra los LP de cada piloto por corporación, los EverMarks y lo que valen en ISK al mejor cambio de cada tienda. Es un permiso nuevo: los pilotos vinculados antes muestran en Pilotos el chip «Puntos de lealtad · opcional»; púlsalo (o **Revincular**) y entra con ese personaje para concederlo. ESI solo da el saldo, así que lo ganado y gastado se apunta desde el primer sync con el permiso.
+> **Puntos de lealtad (opcional):** desde la 1.0.0, Indicadores muestra los LP de cada piloto por corporación, los EverMarks y lo que valen en ISK al mejor cambio de cada tienda. Es un permiso nuevo: los pilotos vinculados antes muestran en Pilotos el chip «Puntos de lealtad · opcional»; púlsalo (o **Revincular**) y entra con ese personaje para concederlo. ESI solo da el saldo, así que lo ganado y gastado se apunta desde el primer sync con el permiso.
 
 > **¿Configuraste tu propia aplicación de EVE con una Secret Key en una versión anterior?** Desde la 0.1.13 la Secret Key no se usa (solo el Client ID). Los pilotos vinculados con ella salen como «Token caducado»: pulsa **Revincular** en cada uno.
 
